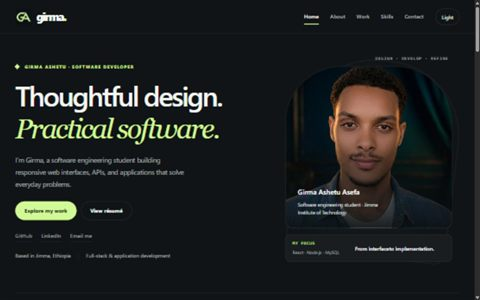
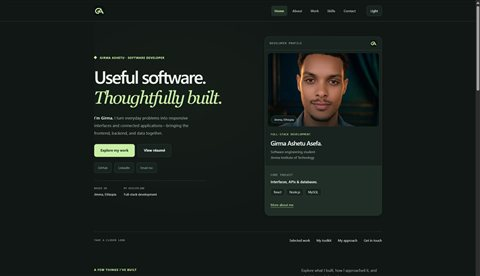
Restore public portfolio demo and refresh project screenshots

diff --git a/client/src/data/projects.js b/client/src/data/projects.js
@@ -1,7 +1,7 @@
 import { studentShowcase } from './studentShowcase';
 export const fallbackProjects = [
  { id: 1, title: 'Bank Management System', description: 'A desktop application for managing accounts, transactions, and account status in Ethiopian Birr.', technologies: 'Java, MySQL, Swing, JDBC', image_url: 'bank.png', link: 'https://github.com/Girma-Ashetu' },
- { id: 2, title: 'Developer Portfolio', description: 'A React portfolio with a project catalogue, content administration, and a contact workflow.', technologies: 'React, Node.js, Express, MySQL', image_url: 'portfolio-home-real.jpg', link: 'https://github.com/Girma-Ashetu/my-portfolio', demo_url: 'https://my-portfolio-67zerfy5v-ac-0af9.vercel.app/admin' },
+ { id: 2, title: 'Developer Portfolio', description: 'A React portfolio with a project catalogue, content administration, and a contact workflow.', technologies: 'React, Node.js, Express, MySQL', image_url: 'portfolio-home-real.jpg', link: 'https://github.com/Girma-Ashetu/my-portfolio', demo_url: 'https://my-portfolio1-theta-one.vercel.app/' },
  { id: 'student-records', ...studentShowcase },
  { id: 4, title: 'Vulnerability Scanner', description: 'A security project exploring common web vulnerabilities and actionable reporting.', technologies: 'Python, Security, React', image_url: 'cyber.png', link: 'https://github.com/Girma-Ashetu' },
  { id: 5, title: 'Mobile Marketplace', description: 'A cross-platform shopping application built with Flutter and Firebase.', technologies: 'Flutter, Firebase, Mobile', image_url: 'ecommerce.png', link: 'https://github.com/Girma-Ashetu' },
